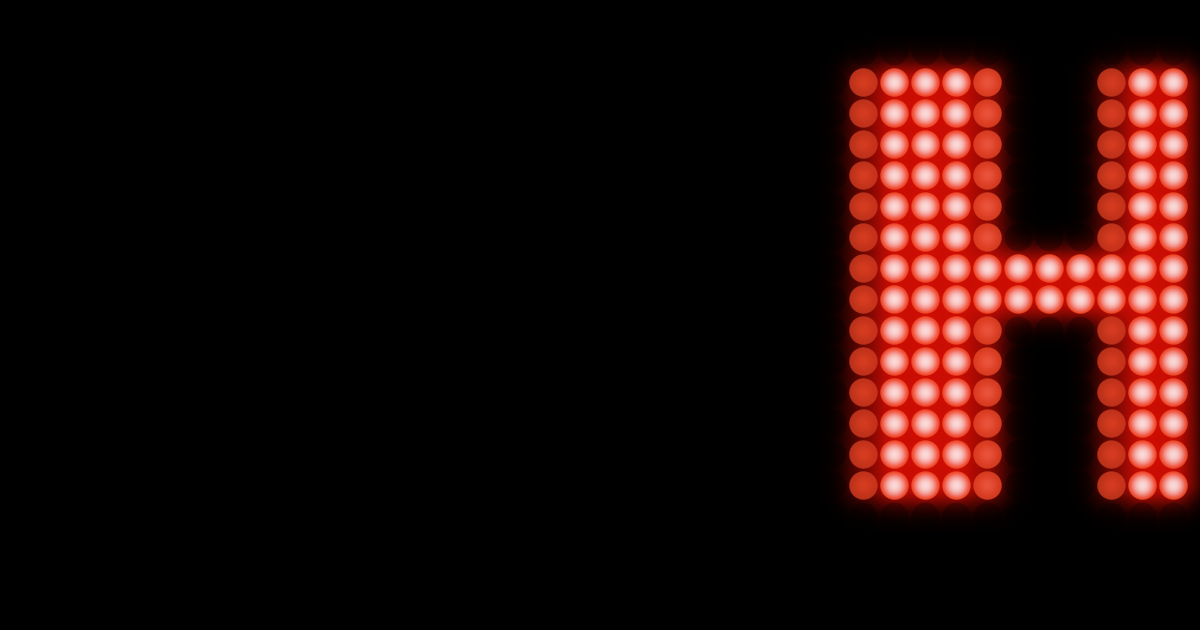
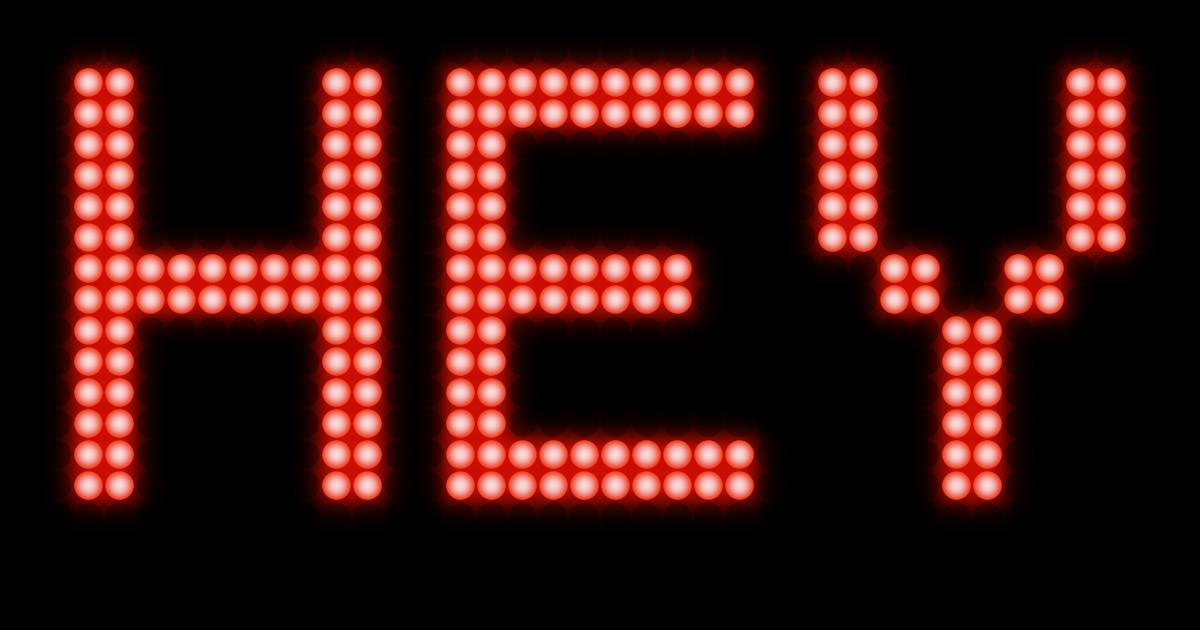
Debounce rasterization for long messages; regenerate OG image
Claude-Session: https://claude.ai/code/session_012PiP883N85WzMsrsa3YxoH

diff --git a/js/app.js b/js/app.js
@@ -381,7 +381,14 @@ msg.value = state.text;
 function syncMsg() {
   clearBtn.hidden = !msg.value;
 }
-msg.addEventListener('input', () => { state.text = msg.value; syncMsg(); updateStrip(); persist(); });
+// Long messages take tens of milliseconds to rasterize, so coalesce keystrokes.
+let stripTimer = 0;
+function scheduleStrip() {
+  clearTimeout(stripTimer);
+  if (state.text.length < 40) { updateStrip(); return; }
+  stripTimer = setTimeout(updateStrip, 60);
+}
+msg.addEventListener('input', () => { state.text = msg.value; syncMsg(); scheduleStrip(); persist(); });
 msg.addEventListener('focus', () => { body.classList.add('typing'); });
 msg.addEventListener('blur', () => { body.classList.remove('typing'); root.style.setProperty('--kb', '0px'); commitRecent(); });
 msg.addEventListener('keydown', (e) => { if (e.key === 'Enter') { e.preventDefault(); msg.blur(); } });
